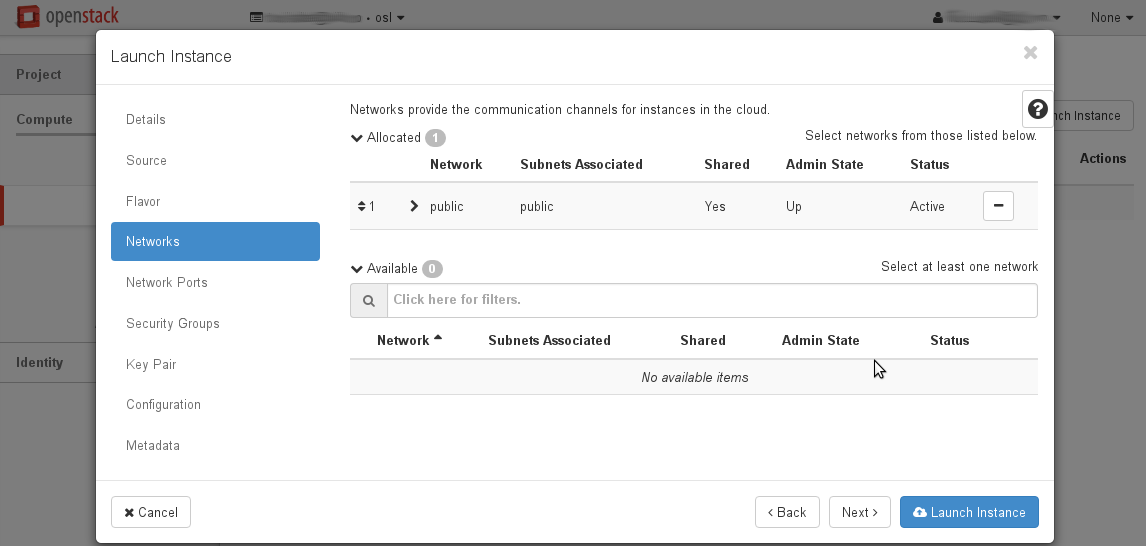
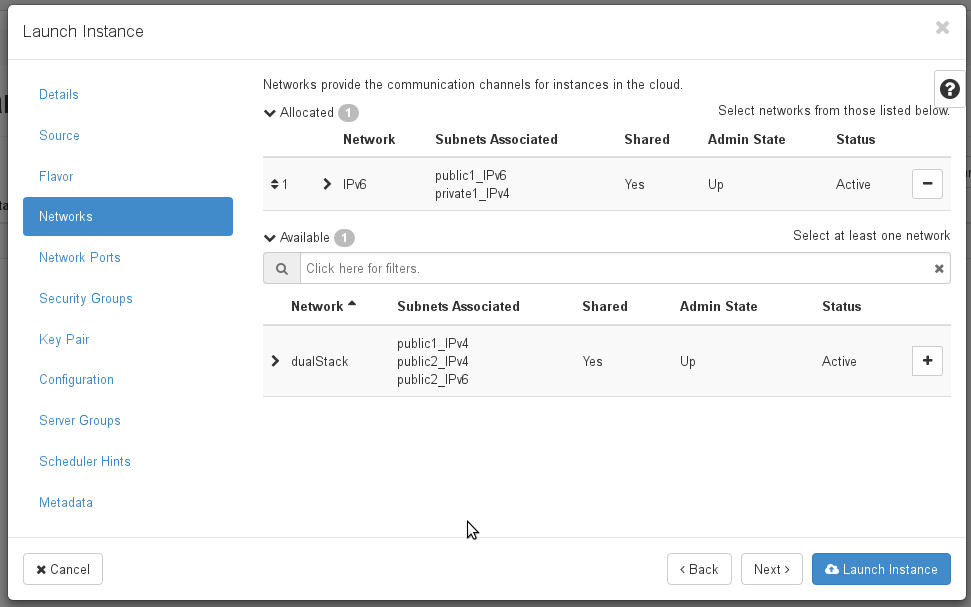
Update docs for IPv6 connectivity

diff --git a/docs/create-windows-machine.rst b/docs/create-windows-machine.rst
@@ -74,8 +74,13 @@ When finished with this tab, select the next, "Networks":
    :align: center
    :alt: Dashboard - Launch instance - Networks
 
-In the UH-IaaS cloud, there aren't many networks to choose from. In
-our example, we have selected the "public" network.
+In the UH-IaaS cloud, there are two networks to choose from, "dualStack"
+and "IPv6". Both networks provides a public IPv6 address, so the difference
+lays in IPv4. "dualStack" provides a public IPv4 address as well, while
+"IPv6" provides a "private" IPv4 address (rfc 1918) which gives the
+instance outbound IPv4 connectivity through NAT. IPv6 is the future
+of internet addressing, but unfortunately not all computers are
+IPv6 enabled as yet. Check your IPv6 connectivity before choosing "IPv6".
 
 When finished with this tab, you can optionally add security groups. In
 our example, we skip this stage (we will create and add security group later)

diff --git a/docs/create-virtual-machine.rst b/docs/create-virtual-machine.rst
@@ -168,8 +168,13 @@ When finished with this tab, select the next, "Networks":
    :align: center
    :alt: Dashboard - Launch instance - Networks
 
-In the UH-IaaS cloud, there aren't many networks to choose from. In
-our example, we have selected the "public" network.
+In the UH-IaaS cloud, there are two networks to choose from, "dualStack"
+and "IPv6". Both networks provides a public IPv6 address, so the difference
+lays in IPv4. "dualStack" provides a public IPv4 address as well, while
+"IPv6" provides a "private" IPv4 address (rfc 1918) which gives the
+instance outbound IPv4 connectivity through NAT. IPv6 is the future
+of internet addressing, but unfortunately not all computers are
+IPv6 enabled as yet. Check your IPv6 connectivity before choosing "IPv6".
 
 When finished with this tab, select the "Security Groups" tab:
 
